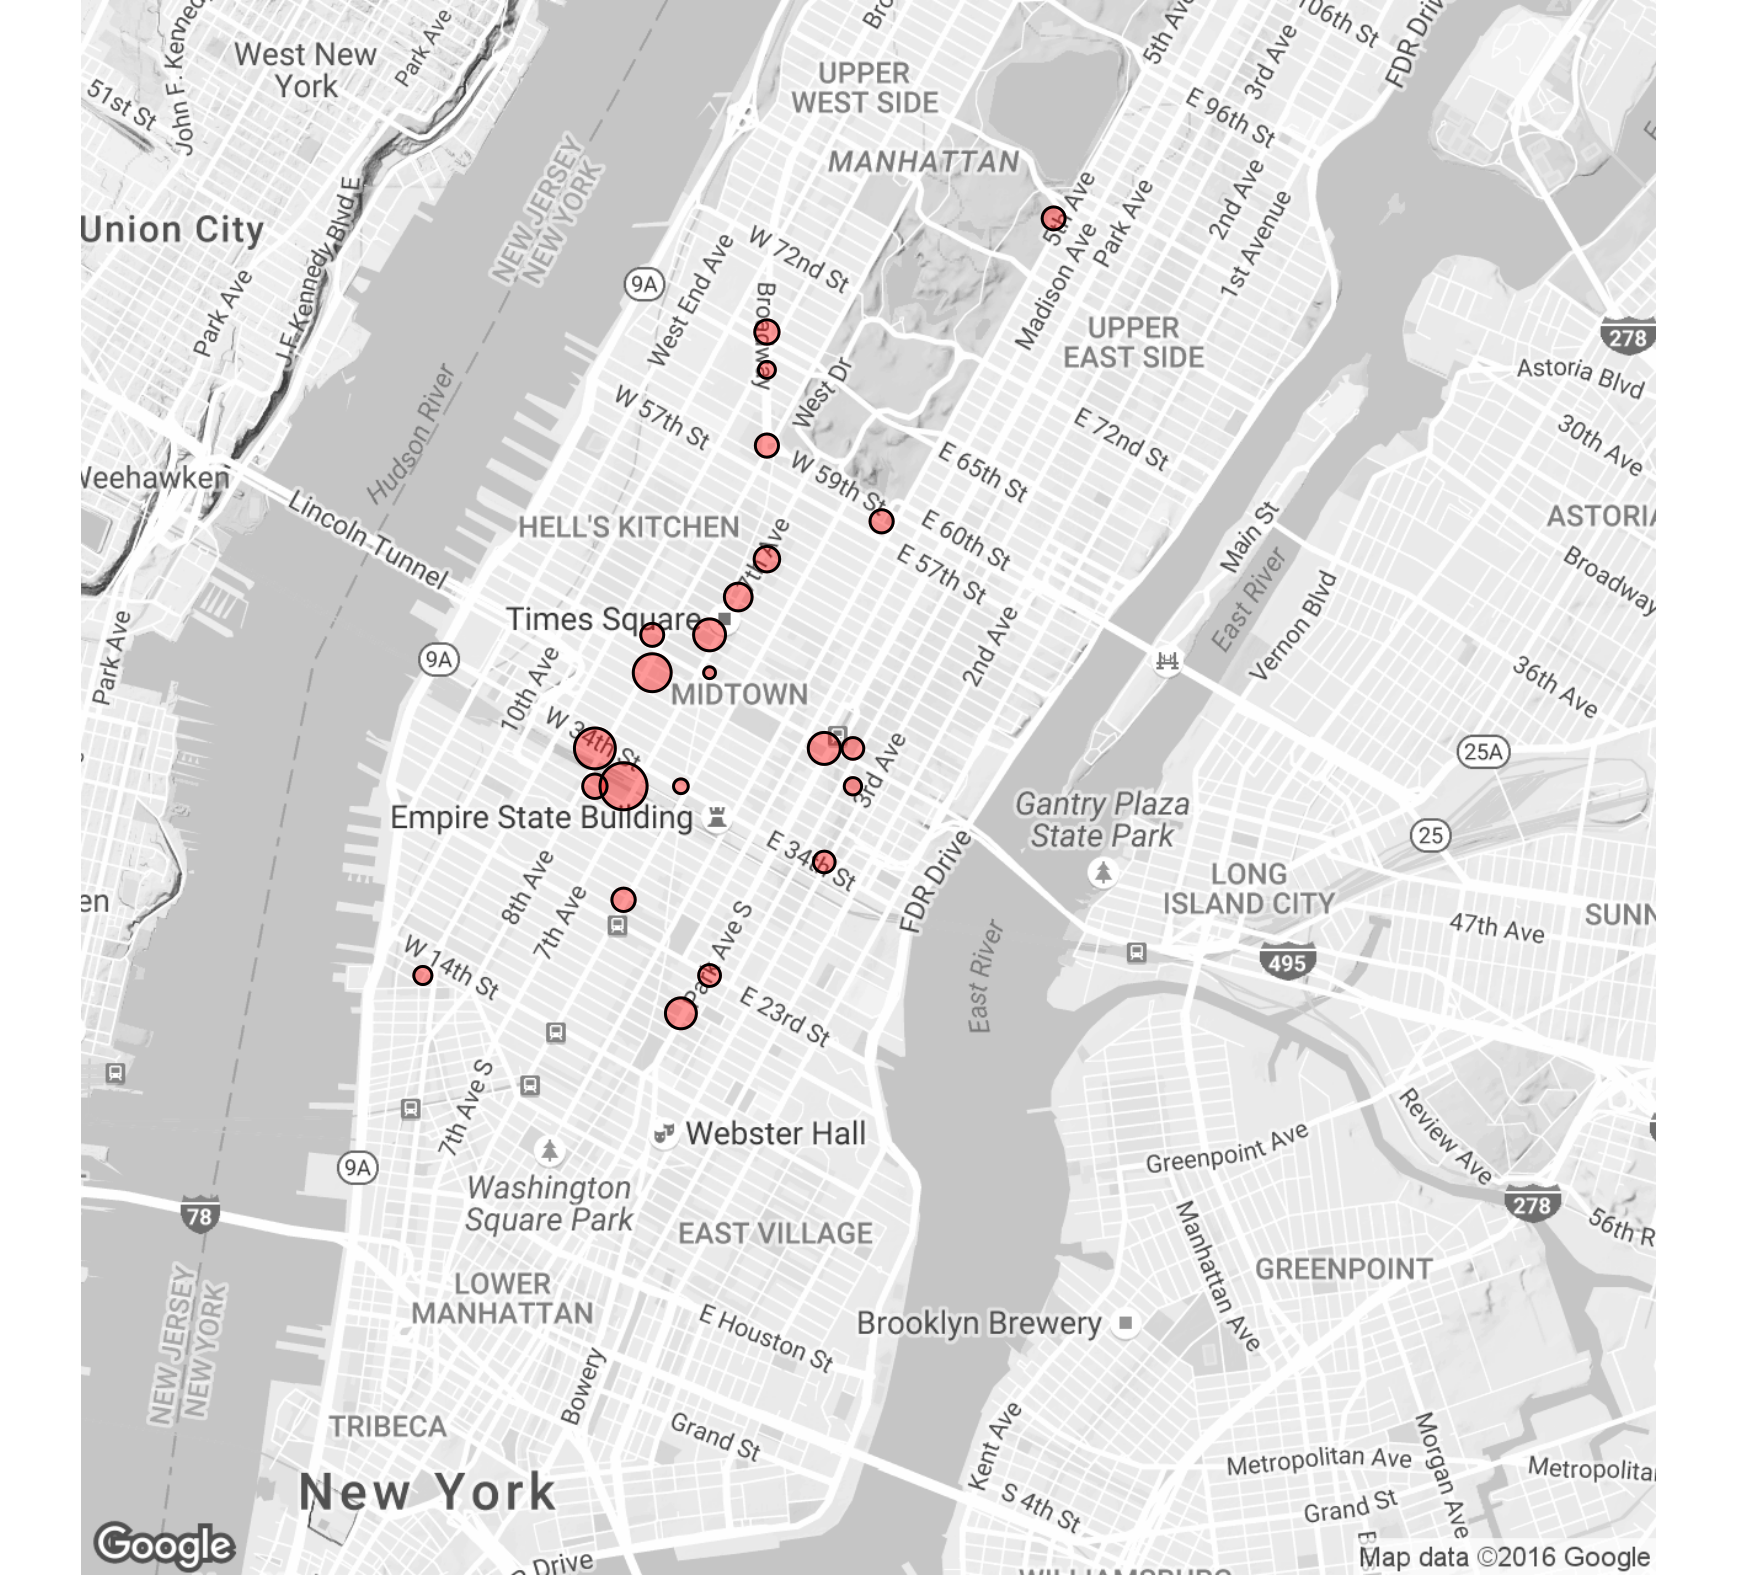
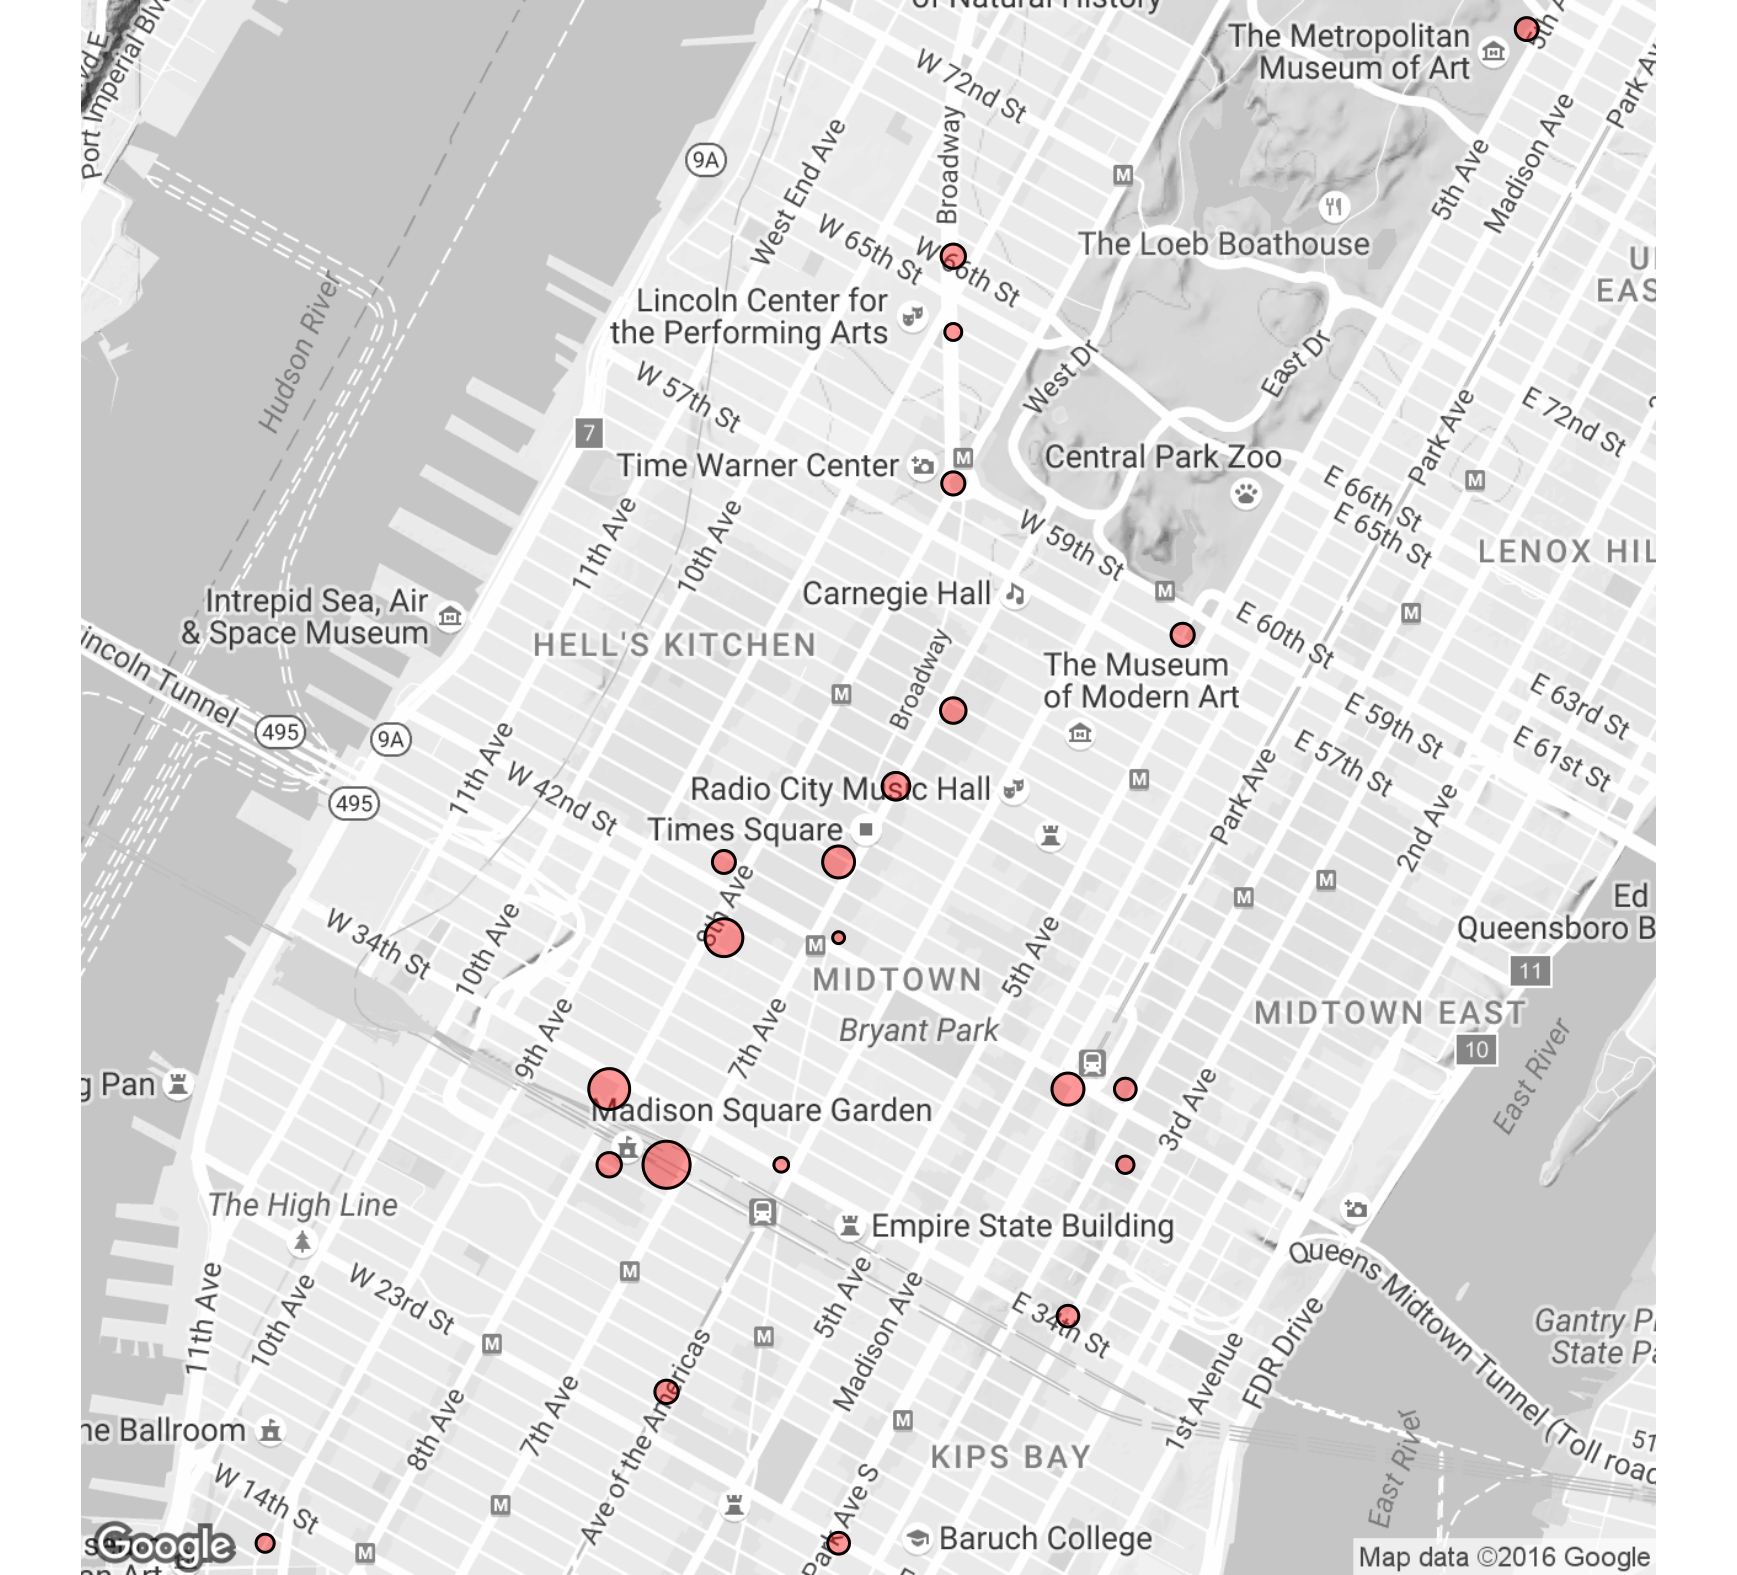
added Zhan on recommender system

diff --git a/abstract/abstract.tex b/abstract/abstract.tex
@@ -92,7 +92,7 @@ By answering these questions, we can assess whether or not drivers have signific
   \label{fig:downtime_distribution}
 \end{figure}
 
-Looking at this distribution, we defined the end of a shift at the last drop off when there is no driver activity for at least six hours. The corrobrates previous research on shift time~\cite{Farber:2014}. The next pickup marked the beginning of the next shift. With this shift information, we were able to group each driver's rides into shifts and compute the efficiency for each shift.
+Looking at this distribution, we defined the end of a shift at the last drop off when there is no driver activity for at least six hours. This corroborates previous research on shift time~\cite{Farber:2014}. The next pickup marked the beginning of the next shift. With this shift information, we were able to group each driver's rides into shifts and compute the efficiency for each shift.
 
 Now, we wanted to find out what effect the driver has on the efficiency of shifts. To accomplish that, we ran a linear regression, using the following model: 
 %\end{multicols}
@@ -116,13 +116,13 @@ We also ran the same model on a dataset with shuffled driver IDs; that is, each 
 \end{figure}
 This distribution reveals that there is a significant variation in drivers’ earnings, and that this variation is not due to chance. Thus, there is a strong correlation between the driver and the efficiency of a given shift. Anyone can be a taxi driver, but there are certain skills that distinguishes one drivers from others! 
 \section{Carpooling}
-After looking at flow and driver behavior, we wanted to find ways to improve the overall taxi system. We noticed that there were lots of trips occurring between similar locations. As a result, we considered a scenario in which people would carpool. Our thought experiment made the following assumptions: Customers would be willing to (1) share a cab with strangers, (2) wait up to five minutes to find someone to carpool with, (3) walk up to one block, (4) share a destination within ~1 kilometer of their own destination. We also assumed that customers would carpool only for trips between two distinct neighborhoods, because customers would probably not want to wait for trips that are relatively short.
+After looking at flow and driver behavior, we wanted to find ways to improve the overall taxi system. Past work have focused on recommender systems~\cite{Zhan:2014}, which would require taxi drivers to be notified via a mobile application or a similar solution. We take a different approach and look at a policy that can be implemented at existing taxi stands, with little overhead. We noticed that there were lots of trips occurring between similar locations. As a result, we considered a scenario in which people would carpool. Our thought experiment made the following assumptions: Customers would be willing to (1) share a cab with strangers, (2) wait up to five minutes to find someone to carpool with, (3) walk up to one block, (4) share a destination within ~1 kilometer of their own destination. We also assumed that customers would carpool only for trips between two distinct neighborhoods, because customers would probably not want to wait for trips that are relatively short.
 
 To look for carpooling potential, we looked for trips that started in a neighborhood X within 1 block from each other, and ended in a neighborhood Y within a 1 km radius. We looked at such trips in 5-minute bins. As we were hoping, a significant number of trips were taking place around the same location, at a similar time. After finding these trips and plotting their pick-up points on a map, we identified the top carpooling hotspots in NYC (figure ~\ref{fig:hotspots}). Unsurprisingly, these places are transportation services (airports and train stations) as well as cultural attractions (museums, theaters, etc.). 
 \begin{figure}[h]
   \centering
   \includegraphics[width=.9\linewidth]{top_25_hotspots}
-  \captionof{figure}{Top carpooling hotspots. \\Notable hotspots are by Penn Station, Grand Central Station, Lincoln Center, Metropolitan Museum of Art, High Line, and others. }
+  \captionof{figure}{Top carpooling hotspots sized by how frequent carpooling potentials occur. \\Notable hotspots are Penn Station, Grand Central Station, Lincoln Center, Metropolitan Museum of Art, High Line, and others. }
   \label{fig:hotspots}
 \end{figure}
 
